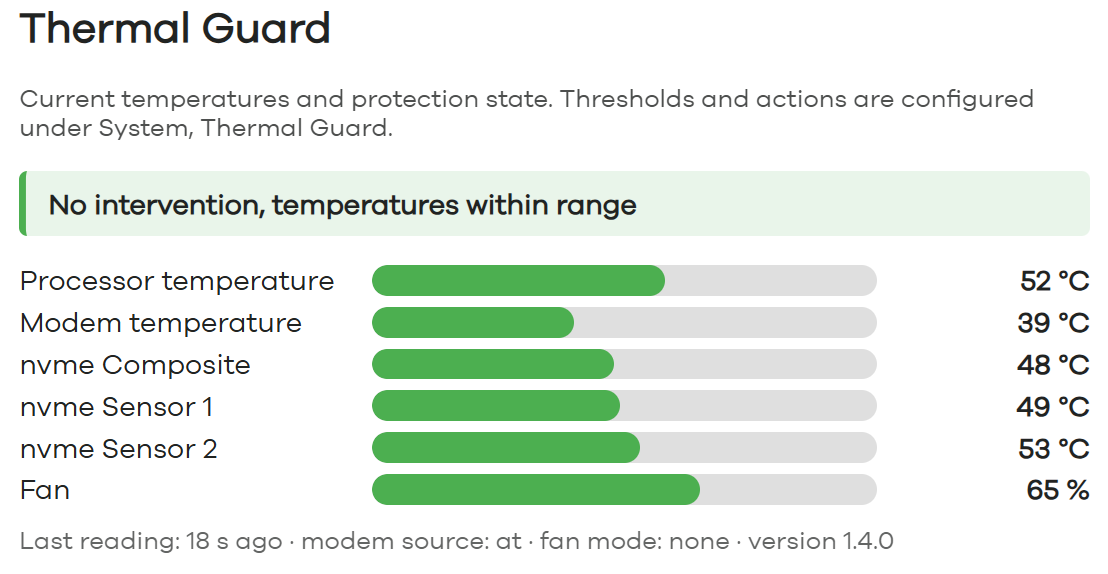
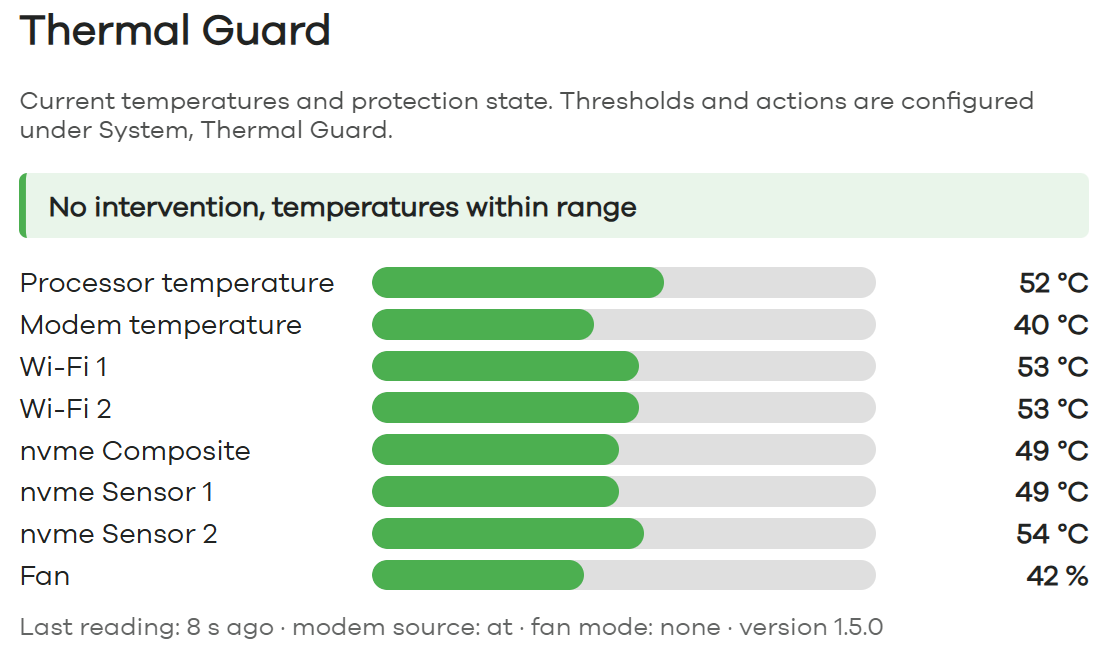
thermal-guard 1.5.0

diff --git a/luci-app-thermal-guard/htdocs/luci-static/resources/view/thermal-guard/monitor.js b/luci-app-thermal-guard/htdocs/luci-static/resources/view/thermal-guard/monitor.js
@@ -48,7 +48,7 @@ function gauge(value, warn, crit, max) {
 // Sensor names come straight from the kernel. Translate the ones people actually
 // recognise, leave the rest as reported rather than guessing.
 function sensorLabel(name) {
-	var m = name.match(/^mt79\d\d_phy(\d)/);
+	var m = name.match(/^(?:mt79\d\d|mtwifi)_phy(\d)/);
 	if (m)
 		return _('Wi-Fi %d').format(parseInt(m[1], 10) + 1);
 	if (name.indexOf('mdio_bus') === 0 || name.indexOf('phy') === 0)

diff --git a/luci-app-thermal-guard/htdocs/luci-static/resources/view/status/include/11_thermal-guard.js b/luci-app-thermal-guard/htdocs/luci-static/resources/view/status/include/11_thermal-guard.js
@@ -25,7 +25,7 @@ function num(v) {
 // Sensor names come straight from the kernel. Translate the ones people actually
 // recognise, leave the rest as reported rather than guessing.
 function sensorLabel(name) {
-	var m = name.match(/^mt79\d\d_phy(\d)/);
+	var m = name.match(/^(?:mt79\d\d|mtwifi)_phy(\d)/);
 	if (m)
 		return _('Wi-Fi %d').format(parseInt(m[1], 10) + 1);
 	if (name.indexOf('mdio_bus') === 0 || name.indexOf('phy') === 0)

diff --git a/README.md b/README.md
@@ -78,9 +78,10 @@ stage is given to prove it worked before the next one starts.
 
 ## Screenshots
 
-The status page on two boards: a Banana Pi R3 Mini with a Fibocom modem and an
-NVMe drive, where another program drives the fan, and a GL-iNet GL-X3000 with a
-Quectel modem, where the kernel does.
+The status page on two boards: a Banana Pi R3 Mini with a Fibocom modem, an NVMe
+drive and the MediaTek vendor Wi-Fi driver, where another program drives the fan,
+and a GL-iNet GL-X3000 with a Quectel modem, where the kernel does. Wi-Fi 1 and 2
+come from `iwpriv` on the one and from hwmon on the other.
 
 <table>
   <tr>
@@ -332,6 +333,12 @@ else reads that file, so nothing but the daemon talks to the modem.
 
 * **Status -> Thermal Guard** is the monitor page: temperatures, fan state, stage.
 * **Status -> Overview** gets a short temperature block, installed with the LuCI app.
+* **Other sensors** of the board (`extra_sensors`, on by default): every hwmon and
+  thermal zone temperature besides the processor, such as Wi-Fi chips, ethernet
+  phys and NVMe drives. The proprietary MediaTek Wi-Fi driver `mt_wifi` exposes
+  none of those; its radios are read with `iwpriv <interface> stat` instead, the
+  way ImmortalWrt's own overview does it, and only while the interface is up.
+  These readings are shown only, they never trigger a stage.
 * **RRD graphs** through collectd. The package ships an exec plugin feed, enable it
   in `/etc/collectd.conf`:
 

diff --git a/CHANGELOG.md b/CHANGELOG.md
@@ -4,6 +4,18 @@ All notable changes to `thermal-guard` and `luci-app-thermal-guard`.
 Versions follow `Major.Minor.Build.Revision`; both packages are released
 together and carry the same number.
 
+## 1.5.0
+
+### Added
+
+- **Wi-Fi temperatures with the proprietary MediaTek driver.** `mt_wifi`, used
+  by the MTK vendor images of the Banana Pi R3 Mini, registers no hwmon sensor,
+  so the status page showed no Wi-Fi readings although the LuCI overview did.
+  The extra sensors now also read `CurrentTemperature` from
+  `iwpriv <interface> stat` for `ra0`, `rax0` and the other `mt_wifi`
+  interfaces, only while they are up and bounded by `timeout`, the same way
+  ImmortalWrt's `autocore` does it. Shown as Wi-Fi 1, Wi-Fi 2, for display only.
+
 ## 1.4.0
 
 Where the kernel drives the fan, thermal-guard can now lower its trip points
